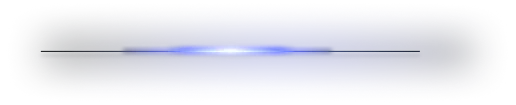
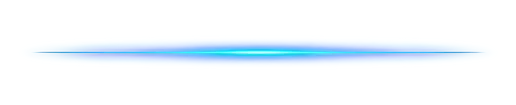
aaa

diff --git a/src/Pages/Services.jsx b/src/Pages/Services.jsx
@@ -20,7 +20,8 @@ const Services = () => {
           <div className="service-header">
             <h2 className="section-title">What We Build For You</h2>
             <p className="section-subtitle">
-              Four core capabilities. One integrated team. Zero handoff headaches.
+              Four core capabilities. One integrated team. Zero handoff
+              headaches.
             </p>
           </div>
 
@@ -35,7 +36,7 @@ const Services = () => {
                     className={`service-tab ${isActive ? "active" : ""}`}
                     style={{
                       flex: isActive ? 1 : 0.08,
-                      backgroundColor: isActive ? "#000" : service.bgColor
+                      backgroundColor: isActive ? "#000" : service.bgColor,
                     }}
                     onClick={() => setActiveTab(service.id)}
                   >
@@ -62,7 +63,10 @@ const Services = () => {
                                   key={idx}
                                   initial={{ opacity: 0, x: -10 }}
                                   animate={{ opacity: 1, x: 0 }}
-                                  transition={{ delay: idx * 0.05, duration: 0.3 }}
+                                  transition={{
+                                    delay: idx * 0.05,
+                                    duration: 0.3,
+                                  }}
                                 >
                                   <TbCheck className="feature-check-icon" />
                                   <span>{item}</span>
@@ -77,10 +81,7 @@ const Services = () => {
                             <TbArrowRight className="service-cta-arrow" />
                           </a>
 
-                          <img
-                            src={service.imageSrc}
-                            alt={service.title}
-                          />
+                          <img src={service.imageSrc} alt={service.title} />
                         </div>
                       </div>
                     ) : (

diff --git a/src/App.css b/src/App.css
@@ -5,6 +5,28 @@
   --heading-top: 100px; 
 }
 
+/* ═══════════════════════════════════════════════════════════════
+   SECTION DIVIDER
+═══════════════════════════════════════════════════════════════ */
+.section-divider {
+  width: 100%;
+  display: flex;
+  justify-content: center;
+  align-items: center;
+  padding: 0;
+  margin: 0;
+  overflow: hidden;
+}
+
+.section-divider img {
+  width: 60%;
+  max-width: 800px;
+  height: auto;
+  display: block;
+  pointer-events: none;
+  user-select: none;
+}
+
 * {
   box-sizing: border-box;
 }
@@ -1128,6 +1150,8 @@ z-index: 0;
   opacity: 1;
   height: 4px;
 }
+
+
 
 .saas-card-content {
   padding: 36px 28px;

diff --git a/src/Pages/Home.jsx b/src/Pages/Home.jsx
@@ -10,6 +10,15 @@ import Company from "./Company";
 import Blog from "./Blog";
 import Contact from "./Contact";
 
+/**IMAGE IMPORTS */
+import divider from "../Images/divider.webp";
+
+const SectionDivider = () => (
+  <div className="section-divider">
+    <img src={divider} alt="" />
+  </div>
+);
+
 const Home = () => {
     return(
         <>
@@ -19,11 +28,17 @@ const Home = () => {
               </div>
             </section>
 
+            <SectionDivider />
             <About />
+            <SectionDivider />
             <Services />
+            <SectionDivider />
             <Portfolio />
+            <SectionDivider />
             <Company />
+            <SectionDivider />
             <Blog />
+            <SectionDivider />
             <Contact />
         </>
     )
